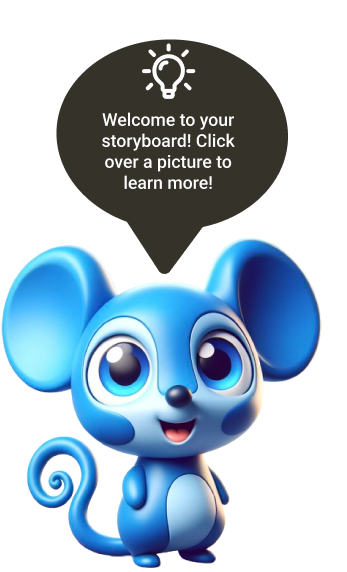
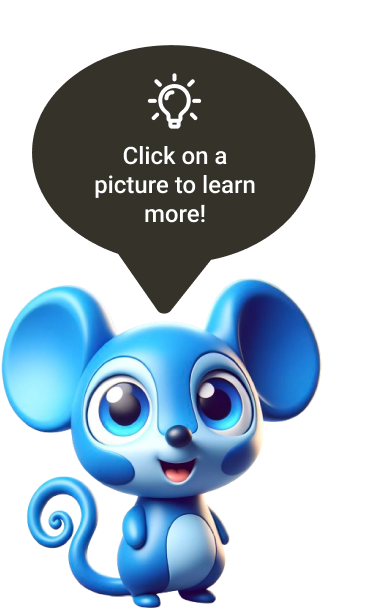
added mouse into slide view

diff --git a/src/components/SlideView.jsx b/src/components/SlideView.jsx
@@ -37,50 +37,62 @@ export default function SlideView() {
 
   return (
     <Stack spacing={2} sx={{ marginTop: 4, alignItems: 'center' }}>
-    <Typography variant="h6">
-      Part {currentSlide + 1} of {imageArray.length}
-    </Typography>
-    <Box sx={{ display: 'flex', alignItems: 'center', justifyContent: 'center', position: 'relative' }}>
-      <Button onClick={handlePrev} sx={{ position: 'absolute', left: 0, color: 'black', fontSize: '48px'  }} disabled={currentSlide === 0}
->
-        <KeyboardArrowLeftIcon fontSize="inherit" />
-      </Button>
-  
-      <Card sx={{ width: '60%', cursor: 'pointer', minHeight: '400px' }} onClick={handleFlip}>
-        {flipped[currentSlide] ? (
-          <CardContent sx={{ display: 'flex', flexDirection: 'column', alignItems: 'center', justifyContent: 'center' }}>
-            <LightbulbIcon sx={{ marginBottom: '8px' }} />
-            <Typography variant="body2" color="textSecondary" align="center">
-              {imageArray[currentSlide].longerCaption}
-            </Typography>
-          </CardContent>
-        ) : (
-          <CardMedia
-            component="img"
-            sx={{ height: '400px' }}
-            image={imageArray[currentSlide].src}
-            alt={imageArray[currentSlide].caption}
-          />
-        )}
-      </Card>
-  
-      <Button 
-      onClick={handleNext} 
-      disabled={currentSlide === imageArray.length - 1}
-      sx={{ position: 'absolute', right: 0, color: 'black', fontSize: '48px'  }}>
-        <KeyboardArrowRightIcon fontSize="inherit" />
-      </Button>
-    </Box>
-    {!flipped[currentSlide] && (
-      <Typography variant="body2" color="textSecondary" align="center" sx={{ width: '80%', marginTop: 2 }}>
-        {imageArray[currentSlide].caption}
+      <Typography variant="h6">
+        Part {currentSlide + 1} of {imageArray.length}
       </Typography>
-    )}
-    <Button variant="contained" onClick={navigateToGridView} sx={{ color: 'white', backgroundColor: 'black', borderRadius: '20px', textTransform: 'none', fontSize: '14px' }}>
-    <GridViewIcon/> Switch to Grid View
-    </Button>
-  </Stack>
-  
+      <Box sx={{ display: 'flex', alignItems: 'center', justifyContent: 'center', position: 'relative' }}>
+        <Button onClick={handlePrev} sx={{ position: 'absolute', left: 0, color: 'black', fontSize: '48px' }} disabled={currentSlide === 0}
+        >
+          <KeyboardArrowLeftIcon fontSize="inherit" />
+        </Button>
+
+        <Card sx={{ width: '60%', cursor: 'pointer', minHeight: '400px' }} onClick={handleFlip}>
+          {flipped[currentSlide] ? (
+            <CardContent sx={{ display: 'flex', flexDirection: 'column', alignItems: 'center', justifyContent: 'center' }}>
+              <LightbulbIcon sx={{ marginBottom: '8px' }} />
+              <Typography variant="body2" color="textSecondary" align="center">
+                {imageArray[currentSlide].longerCaption}
+              </Typography>
+            </CardContent>
+          ) : (
+            <CardMedia
+              component="img"
+              sx={{ height: '400px' }}
+              image={imageArray[currentSlide].src}
+              alt={imageArray[currentSlide].caption}
+            />
+          )}
+        </Card>
+
+        <Button
+          onClick={handleNext}
+          disabled={currentSlide === imageArray.length - 1}
+          sx={{ position: 'absolute', right: 0, color: 'black', fontSize: '48px' }}>
+          <KeyboardArrowRightIcon fontSize="inherit" />
+        </Button>
+      </Box>
+      {!flipped[currentSlide] && (
+        <Typography variant="body2" color="textSecondary" align="center" sx={{ width: '80%', marginTop: 2 }}>
+          {imageArray[currentSlide].caption}
+        </Typography>
+      )}
+      <Button variant="contained" onClick={navigateToGridView} sx={{ color: 'white', backgroundColor: 'black', borderRadius: '20px', textTransform: 'none', fontSize: '14px' }}>
+        <GridViewIcon /> Switch to Grid View
+      </Button>
+
+      <Box
+        sx={{
+          position: 'absolute',
+          bottom: 16,
+          left: 0,
+          width: '20%', // Adjust the width to scale the image
+          height: 'auto' // Maintain aspect ratio
+        }}
+      >
+        <img src={'mouse-speech-bubble.png'} alt="image of blue cartoon mouse in bottom left of screen" style={{ marginLeft: '8px', width: '100%' }} />
+      </Box>
+    </Stack>
+
 
   );
 };
